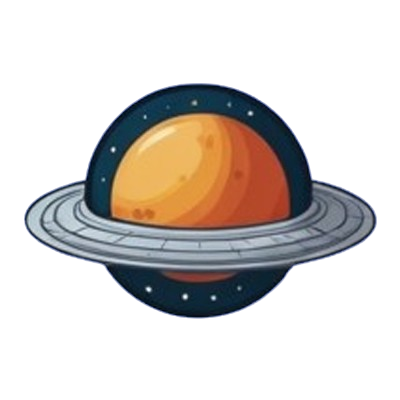
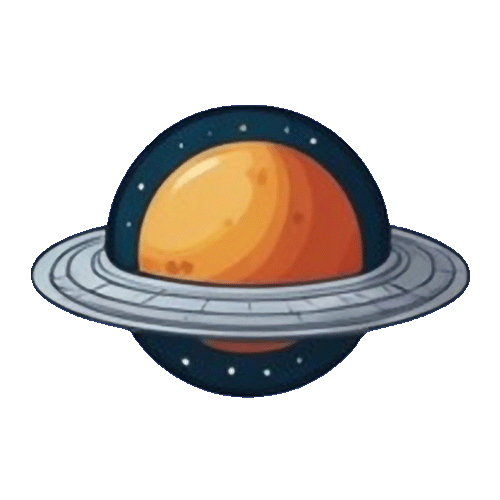
Change: upscale images, fix the mobile size

diff --git a/html/pages/about.html b/html/pages/about.html
@@ -6919,7 +6919,8 @@
 				</svg>
 			</div>
 		</section>
-		<section class="skillSection wrapper hidden left-right">
+		<section class="skillSection wrapper ">
+			<div class="wrapper hidden left-right">
 			<h2 class="title">My Skills</h2>
 			<div class="progress">
 				<div class="skills">
@@ -6986,10 +6987,11 @@
 					</p>
 				</article>
 			</div>
+		</div>
 		</section>
-		<section class="goalSection wrapper hidden right-left">
+		<section class="goalSection wrapper">
 			<h2 class="title">My Goals</h2>
-			<div class="goal-containet">
+			<div class="goal-containet hidden right-left">
 				<img src="../../images/firstGoal.png" alt="planet">
 				<p class="text">
 					My journey in the realm of technology has been marked by a series of ambitious goals, each one
@@ -6998,12 +7000,12 @@
 					a goal I proudly achieved through dedication and perseverance.
 				</p>
 			</div>
-			<div class="current-goal">
+			<div class="current-goal hidden left-right">
 				<p class="text">
 					But my thirst for knowledge knows no bounds. Currently, I find myself immersed in the captivating
 					world of <span class="highlight">Web Development</span> eagerly honing my skills to craft dynamic
 					and engaging digital experiences.
-					From <span class="highlight">frontend</span>finesse to <span class="highlight">backend</span>
+					From <span class="highlight">frontend</span> finesse to <span class="highlight">backend</span>
 					architecture, every line of code is a step forward on this
 					exhilarating path.
 				</p>
@@ -7021,18 +7023,19 @@
 					<img src="../../images/currentGoal.png" alt="planet">
 				</div>
 			</div>
-			<div class="goal-containet">
+			<div class="goal-containet hidden right-left">
 				<img src="../../images/FutureGoal.png" alt="planet">
 				<p class="text">
 					My ambitions transcend traditional web development. Every skill I've honed serves a grand vision—an
 					<span class="highlight">empire reshaping technology's landscape</span>.
-					With an unwavering gaze towards the future, I will delve into  <span class="highlight">Unreal Engine</span> and  <span class="highlight">game development</span>.
+					With an unwavering gaze towards the future, I will delve into <span class="highlight">Unreal
+						Engine</span> and <span class="highlight">game development</span>.
 					Here, creativity knows no bounds. Each project fuels this vision—an ecosystem of innovation.
 					In merging web development and gaming, I want to craft experiences that captivate and endure. This
 					isn't just about projects; it's about leaving a lasting legacy on the digital world.
 				</p>
 			</div>
-			<div class="last-goal">
+			<div class="last-goal hidden pop-up">
 				<img src="../../images/Legacy.jpg" alt="legacy">
 				<p class="text">
 					-<span class="highlight">THIS IS NOT THE END</span>-

diff --git a/css/pages/about/about.css b/css/pages/about/about.css
@@ -19,17 +19,24 @@
 }
 
 .skillSection {
-    width: 80%;
+    width: 100%;
+    height: 100vh;
     margin-top: 100px;
     color: white;
     display: flex;
     flex-direction: column;
-    
+    background-image: url('../../../images/bgbackground.png');
+    background-repeat: no-repeat;
+    background-size: cover;
+    background-position: center;
 }
-
+.skillSection .wrapper{
+    margin-top: 60px;
+    width: 80%;
+}
 .progress {
-    margin-top: 100px;
     width: 100%;
+    margin-top: 100px;
     display: flex;
     justify-content: center;
 }
@@ -48,13 +55,13 @@
     justify-content: center;
     align-items: center;
     padding: 20px;
-    background-image: url('../../../images/skillDescriptionBg.png');
-    background-repeat: no-repeat;
-    background-size: cover;
+    background-color: #0000007e;
+    border-radius: 50px;
 }
 
 .detail {
     width: 60%;
+    text-align: center;
 }
 
 .detail .text {
@@ -128,6 +135,9 @@ animation: wave 1s alternate infinite ease-in-out;
 
    100% { transform: translateY(30px)  }
 }
+
+
+
 @media (max-width: 1100px) {
     .text {
         font-size: 1.2rem;
@@ -139,6 +149,7 @@ animation: wave 1s alternate infinite ease-in-out;
 
     .skillSection {
         align-items: center;
+        height: fit-content;
     }
 
     .skills {
@@ -147,6 +158,12 @@ animation: wave 1s alternate infinite ease-in-out;
 
     .title {
         font-size: 2rem;
+    }
+    .goalSection img{
+        width: 400px;
+    }
+    .current-goal .images img{
+        display: none;
     }
 }
 
@@ -161,7 +178,6 @@ animation: wave 1s alternate infinite ease-in-out;
     .background-text {
         width: 90%;
         height: fit-content;
-        text-align: left;
         justify-content: center;
         align-items: center;
     }
@@ -169,13 +185,28 @@ animation: wave 1s alternate infinite ease-in-out;
     .background-text .title {
         margin-bottom: 40px;
     }
-
     .skillSection {
-        justify-content: center;
-        align-items: center;
+        height: fit-content;
     }
-
+    .skillSection .wrapper{
+        width: 100%;
+    }
     .skills {
         grid-template-columns: 1fr 1fr;
+    }
+    .goal-containet{
+        flex-direction: column;
+    }
+    .current-goal{
+        flex-direction: column-reverse;
+    }
+    .goal-containet .text, .current-goal .text{
+        width: 100%;
+    }
+    .goalSection img{
+        width: 300px;
+    }
+    .current-goal .images{
+        flex-direction: column-reverse;
     }
 }

diff --git a/css/global/component.css b/css/global/component.css
@@ -79,12 +79,16 @@ a {
 .right-left{
     transform: translateX(100%);
 }
+.pop-up{
+    scale: 0;
+}
 .hidden{
     opacity: 0;
-    transition:transform 1s ease-in-out, opacity 1s ease-in-out;
+    transition:transform 1s ease-in-out, opacity 1s ease-in-out, scale 1s ease-in-out;
 }
 .show{
     transform: translateX(0);
+    scale: 1;
     opacity: 1;
 }
 /*--------HOVER---------*/

diff --git a/css/pages/home/home.css b/css/pages/home/home.css
@@ -1,7 +1,7 @@
 /*---------------Hero Section---------------*/
 .hero {
     width: 100%;
-    height: 85vh;
+    height: 100vh;
     background-image: url("../../../images/Background.png");
     background-repeat: no-repeat;
     background-size: cover;
